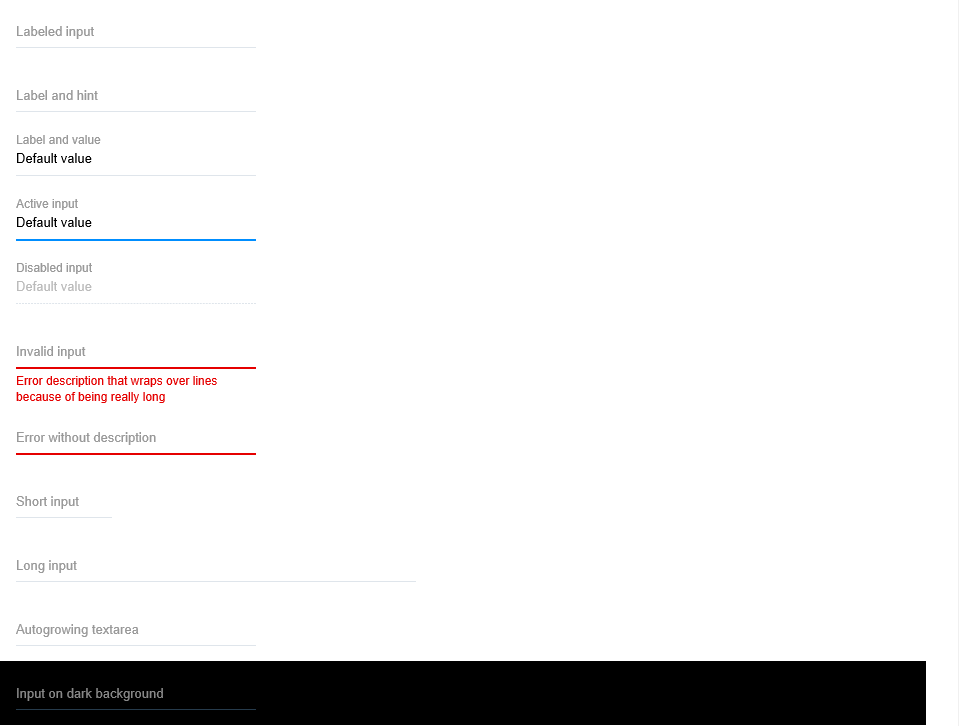
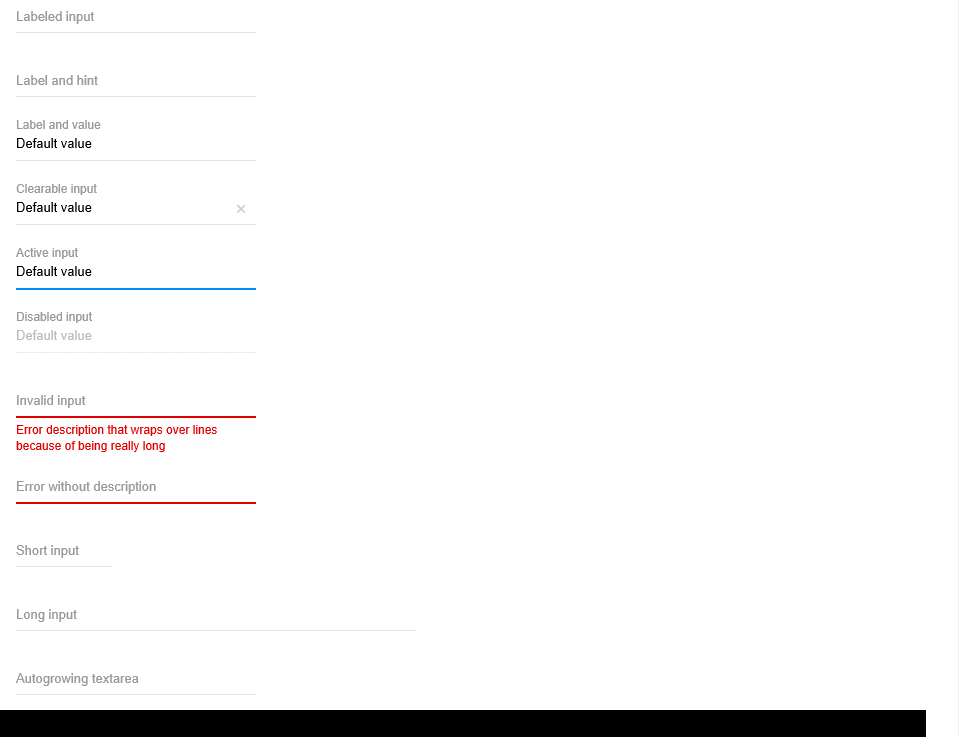
clearable input
Former-commit-id: 548915cd3103a4e0f5deef26246cc2f489e109c8

diff --git a/components/input/input.js b/components/input/input.js
@@ -2,7 +2,13 @@ import React, {PureComponent, PropTypes} from 'react';
 import classNames from 'classnames';
 import Theme from '../global/theme';
 
+import Button from '../button/button';
+
+import clearIcon from 'jetbrains-icons/close.svg';
+
 import styles from './input.css';
+
+function noop() {}
 
 /**
  * @name Input
@@ -34,6 +40,7 @@ export default class Input extends PureComponent {
     error: PropTypes.string,
     multiline: PropTypes.bool,
     onChange: PropTypes.func,
+    onClear: PropTypes.func,
     inputRef: PropTypes.func,
     children: PropTypes.string
   };
@@ -41,8 +48,9 @@ export default class Input extends PureComponent {
   static defaultProps = {
     theme: Theme.LIGHT,
     size: Size.M,
-    onChange() {},
-    inputRef() {}
+    onChange: noop,
+    onClear: noop,
+    inputRef: noop
   };
 
   state = {
@@ -85,6 +93,10 @@ export default class Input extends PureComponent {
     this.props.inputRef(el);
   };
 
+  clear = e => {
+    this.props.onClear(e);
+  }
+
   render() {
     const {
       // Modifiers
@@ -100,9 +112,12 @@ export default class Input extends PureComponent {
       children,
       value,
       onChange,
+      onClear,
       inputRef, // eslint-disable-line no-unused-vars
       ...restProps
     } = this.props;
+    const {empty} = this.state;
+    const clearable = onClear !== noop && !empty;
     const classes = classNames(
       styles.container,
       className,
@@ -111,12 +126,15 @@ export default class Input extends PureComponent {
       {
         [styles.active]: active,
         [styles.error]: error != null,
-        [styles.empty]: this.state.empty,
-        [styles.noLabel]: !this.props.label
+        [styles.empty]: empty,
+        [styles.noLabel]: !this.props.label,
+        [styles.clearable]: clearable
       }
     );
 
     const TagName = multiline ? 'textarea' : 'input';
+
+    const text = value != null ? value : children;
 
     return (
       <div
@@ -130,10 +148,18 @@ export default class Input extends PureComponent {
             this.checkValue(e.target);
           }}
           className={styles.input}
-          value={value != null ? value : children}
+          value={text}
           rows={multiline ? 1 : null}
           {...restProps}
         />
+        {clearable && (
+          <Button
+            className={styles.clear}
+            icon={clearIcon}
+            iconSize={Button.IconSize.Size14}
+            onClick={this.clear}
+          />
+        )}
         <label className={styles.label}>{label}</label>
         <div className={styles.underline} />
         <div className={styles.focusUnderline} />

diff --git a/components/input/input.examples.html b/components/input/input.examples.html
@@ -28,11 +28,41 @@
 
   <file type="js">
     import {render} from 'react-dom';
-    import React from 'react';
+    import React, {PureComponent} from 'react';
 
     import Input from 'ring-ui/components/input/input';
 
     const container = document.getElementById('inputs');
+
+    class ClearableInput extends PureComponent {
+      state = {
+        text: "Default value"
+      };
+
+      setText = e => {
+        this.setState({
+          text: e.target.value
+        });
+      };
+
+      clear = () => {
+        this.setState({
+          text: ""
+        });
+      };
+
+      render() {
+        return (
+          <Input
+            value={this.state.text}
+            onChange={this.setText}
+            onClear={this.clear}
+            {...this.props}
+          />
+        );
+      }
+    }
+
     const inputs = (
       <form className="inputs">
         <Input label="Labeled input" />
@@ -44,6 +74,9 @@
         <Input
           label="Label and value"
           defaultValue="Default value"
+        />
+        <ClearableInput
+          label="Clearable input"
         />
         <Input
           label="Active input"

diff --git a/components/input/input.css b/components/input/input.css
@@ -32,6 +32,10 @@
   background: transparent;
   composes: blue-caret;
 
+  @nest .clearable & {
+    padding-right: calc(unit * 4);
+  }
+
   @nest .dark & {
     @supports not (caret-color: white) {
       text-shadow: text-shadow white-color;
@@ -65,6 +69,16 @@
       top: calc(unit / 2);
     }
   }
+}
+
+.clear {
+  position: absolute;
+  top: 15px;
+  /* override Button */
+  && {
+    line-height: calc(unit * 4);
+  }
+  right: 0;
 }
 
 textarea.input {
